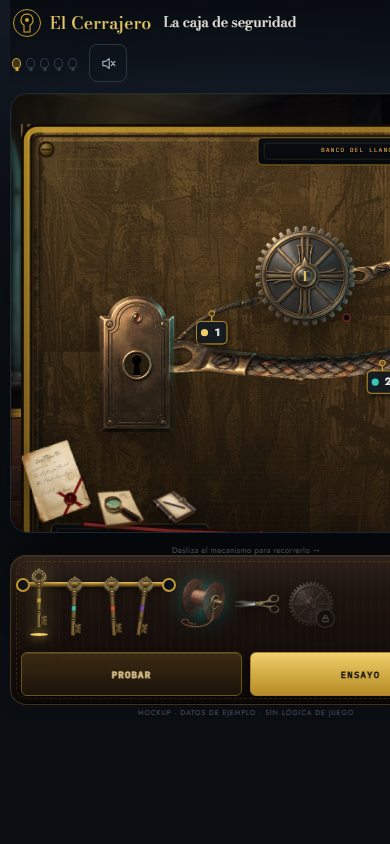
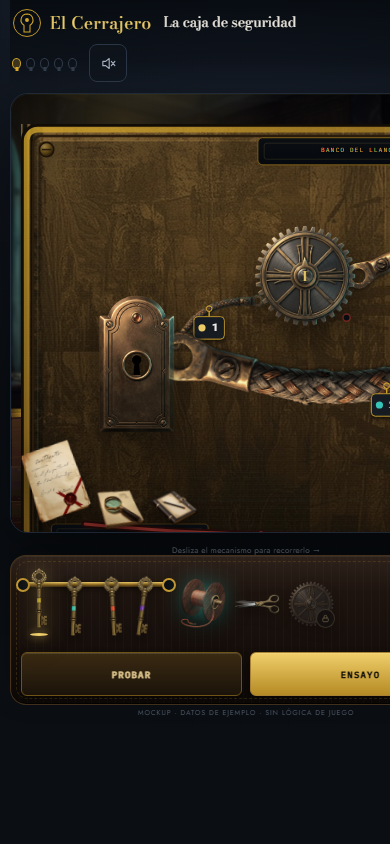
fix(mockup): keep cable shape with uniform scaling

Changed region(s): [[0.4308, 0.3389, 1.0, 0.5237], [0.8923, 0.2773, 1.0, 0.3389]]

diff --git a/mockups/nivel-1-taller/app.js b/mockups/nivel-1-taller/app.js
@@ -395,12 +395,10 @@ const CABLE_ART = {
   eyeletY: 335,
   eyeletSpan: 1314,
   rise: 220,
-  flatten: 0.65,
   tagHang: 24,
   drawMs: 400,
 };
 
-const PREVIEW_FLATTEN = 0.42;
 let cableSerial = 0;
 
 function partClearance(point) {
@@ -437,15 +435,15 @@ function chooseBow(from, to) {
   return autoBow(PARTS[from], PARTS[to]);
 }
 
-function arcGeometry(start, end, bow, flatten = CABLE_ART.flatten) {
+function arcGeometry(start, end, bow) {
   const dx = end.x - start.x;
   const dy = end.y - start.y;
   const chord = Math.hypot(dx, dy) || 1;
   const angle = (Math.atan2(dy, dx) * 180) / Math.PI;
   const scaleX = chord / CABLE_ART.eyeletSpan;
-  const scaleY = scaleX * flatten * bow;
+  const scaleY = scaleX * bow;
   const normal = { x: dy / chord, y: -dx / chord };
-  const rise = CABLE_ART.rise * scaleX * flatten * bow;
+  const rise = CABLE_ART.rise * scaleX * bow;
   const control = {
     x: (start.x + end.x) / 2 + normal.x * rise * 2,
     y: (start.y + end.y) / 2 + normal.y * rise * 2,
@@ -624,7 +622,7 @@ function updateCablePreview(sourceId, clientX, clientY) {
   const start = rimPoint(from, target, from.r);
   const end = targetId === null ? pointer : rimPoint(target, from, target.r);
   const bow = targetId === null ? autoBow(start, end) : chooseBow(sourceId, targetId);
-  const geometry = arcGeometry(start, end, bow, targetId === null ? PREVIEW_FLATTEN : CABLE_ART.flatten);
+  const geometry = arcGeometry(start, end, bow);
   const preview = ensurePreview();
   preview.arc.setAttribute('transform', geometry.wrapperTransform);
   preview.image.setAttribute('transform', geometry.imageTransform);

diff --git a/mockups/nivel-1-taller/README.md b/mockups/nivel-1-taller/README.md
@@ -71,7 +71,8 @@ No hay lógica de juego, ni importaciones de `src/core` o `src/game`, ni validac
 ## Notas de integración
 
 - Las fuentes del mockup son **Bodoni Moda** (display), **Jost** (UI) e **IBM Plex Mono** (lecturas técnicas), self-hosted en `assets/fonts/`. La propuesta original de Fraunces/Inter quedó reemplazada por esta combinación más art déco/noir.
-- Los cables usan `cable.png` como arco fotográfico entre las piezas: los eyelets del asset se alinean con los extremos del cable y la imagen se estira desde el origen al conectar. Las etiquetas cuelgan del punto medio del arco.
+- Los cables usan `cable.png` como arco fotográfico entre las piezas: los eyelets del asset se alinean con los extremos y la imagen se estira desde el origen al conectar. Las etiquetas cuelgan del punto medio del arco.
+- El cable se escala de forma proporcional: la trenza y los eyelets conservan su forma aunque el cable sea largo. No hay compresión vertical.
 - El riel del llavero queda detrás de las llaves: el latón se ve a través del ojo de cada llave y la pieza no parece cortada al seleccionarla.
 - Las coordenadas principales del mecanismo usan un `viewBox 900×560` y posiciones porcentuales para facilitar el reemplazo del editor SVG.
 - El cursor personalizado oculta el cursor nativo solo sobre el escenario. En los objetos de papel y en el inventario se usa el cursor normal.

diff --git a/mockups/nivel-1-taller/REVISION-ASSETS.md b/mockups/nivel-1-taller/REVISION-ASSETS.md
@@ -30,7 +30,7 @@ Todos los PNG de IA tenían fondo transparente real (alpha en las esquinas) salv
 | `engranaje.png` | 2048×2048 | Ruedas de memoria I y II | Recorte y reducción a `rueda-engranaje.png` (1022×1024) |
 | `alarma.png` | 2048×2048 | Campana de alarma | Recorte y reducción a `campana-alarma.png` (508×512) |
 | `tijeras.png` | 1456×720 | Herramienta de corte y cursor | Recorte y reducción a `tijeras.png` (800×369) |
-| `cable.png` | 2752×1536 | Cables del mecanismo | Recorte a 1600×480; se usa como arco entre piezas, no como sprite recto |
+| `cable.png` | 2752×1536 | Cables del mecanismo | Recorte a 1600×480; arco entre piezas con escala uniforme, sin compresión vertical |
 
 ### Llaves 2–4
 
